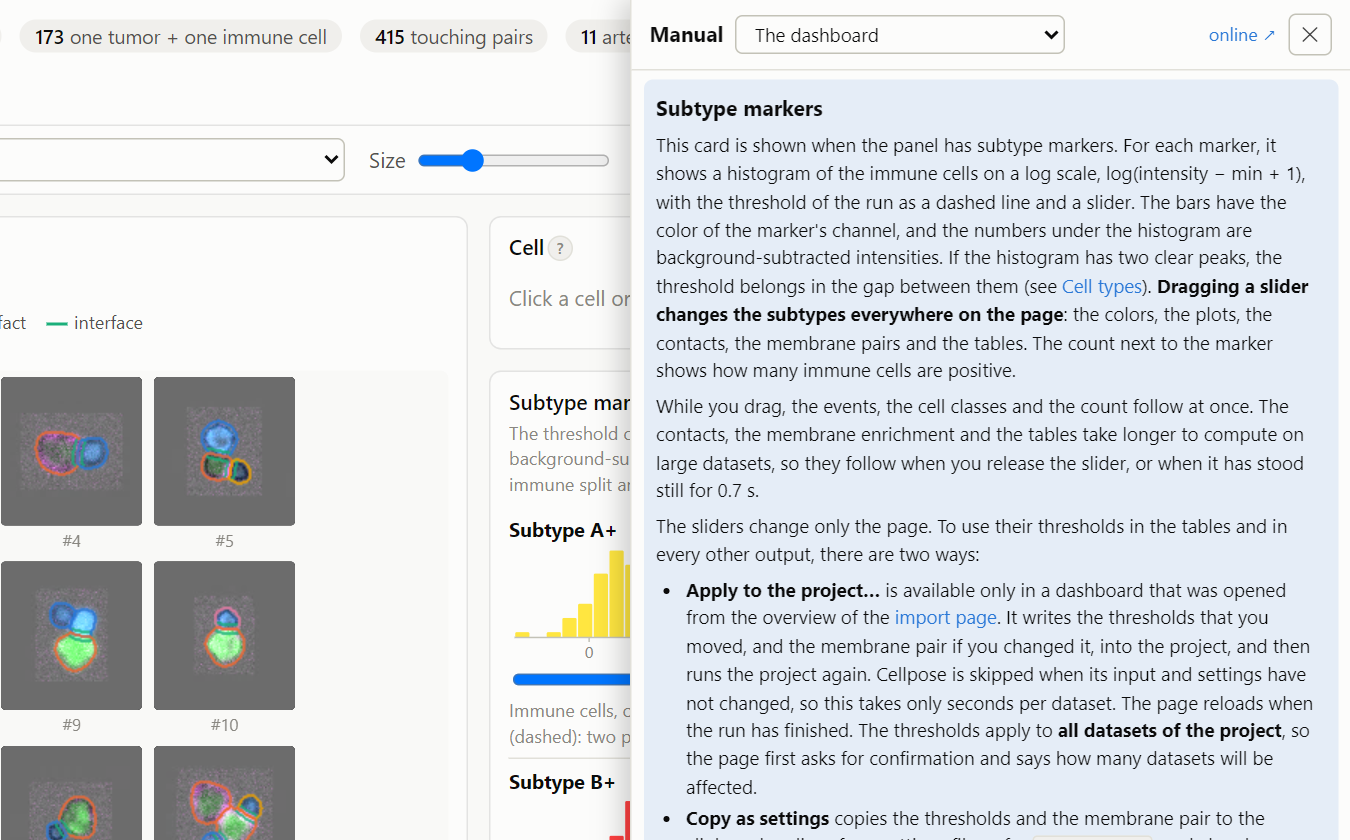
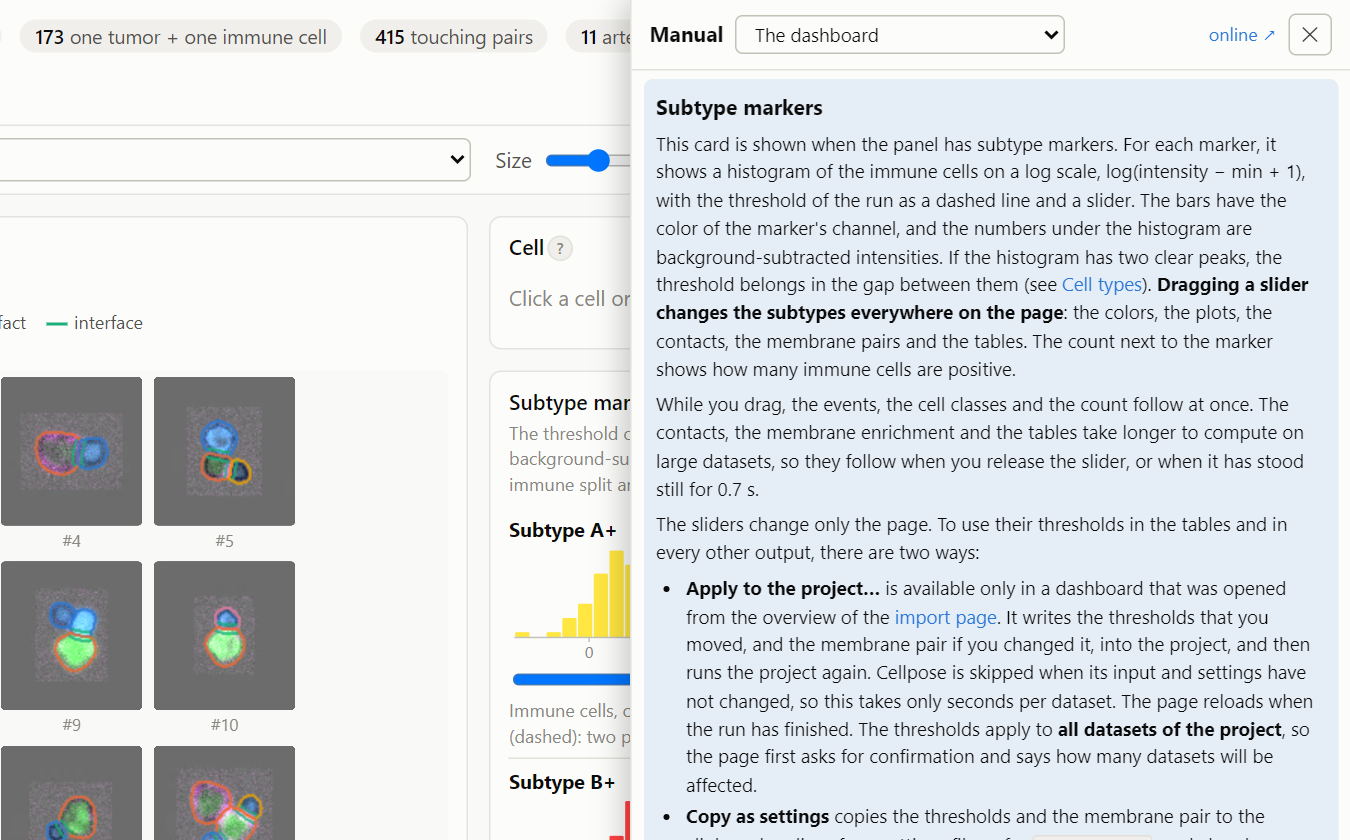
Manual: screenshots retaken (Combine as, membrane profiles in µm from the interface)

diff --git a/tools/manual/MAINTAINING.md b/tools/manual/MAINTAINING.md
@@ -79,8 +79,7 @@ off).
 Small changes to the program whose screenshots are not retaken yet (the user prefers to retake them together, with
 a larger change). Retake them at the next refresh and empty this list.
 
-- 2026-11-05: the membrane card's profile axes give µm from the interface (0); the cell card's profile is labelled
-  log2 or SD. Affects `dash_membrane`, `dash_pairs`, `dash_cell` (if it shows a profile) and the live demo.
+- (none: all retaken on 2026-11-05)
 
 The logo: `python tools/make_logo.py` (the SVG is the drawing; the icon is rendered from it by Edge). It writes
 `templates/logo.svg` and `logo.ico` and `manual/images/logo.svg`; retake the screenshots after changing it.
